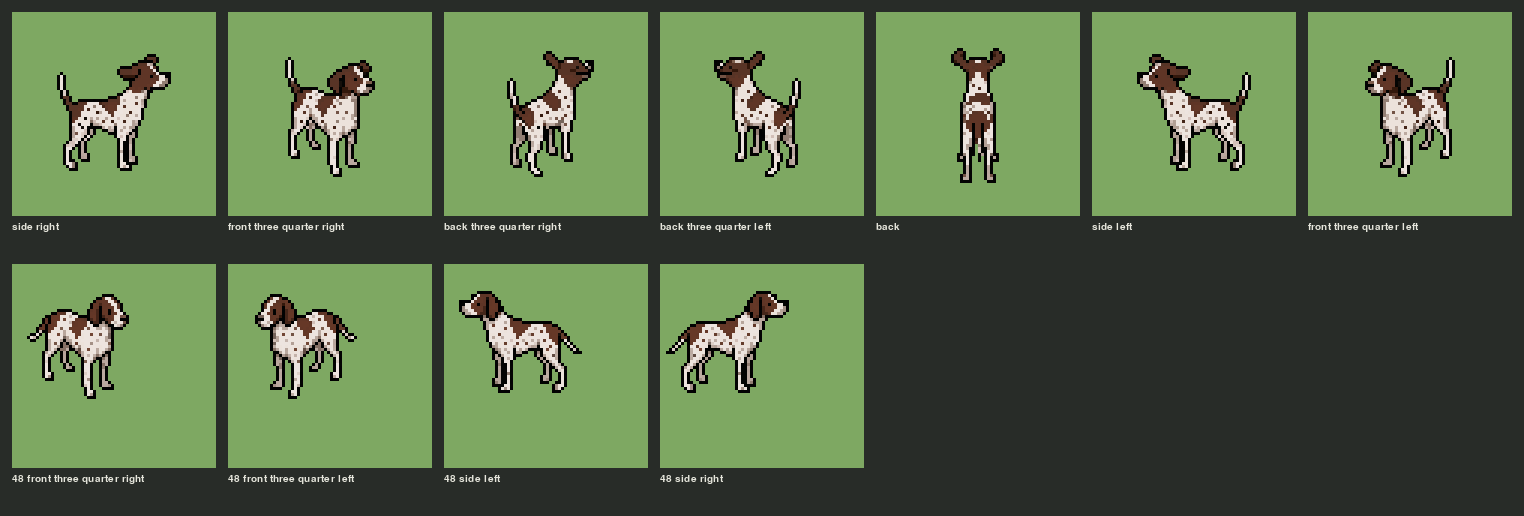
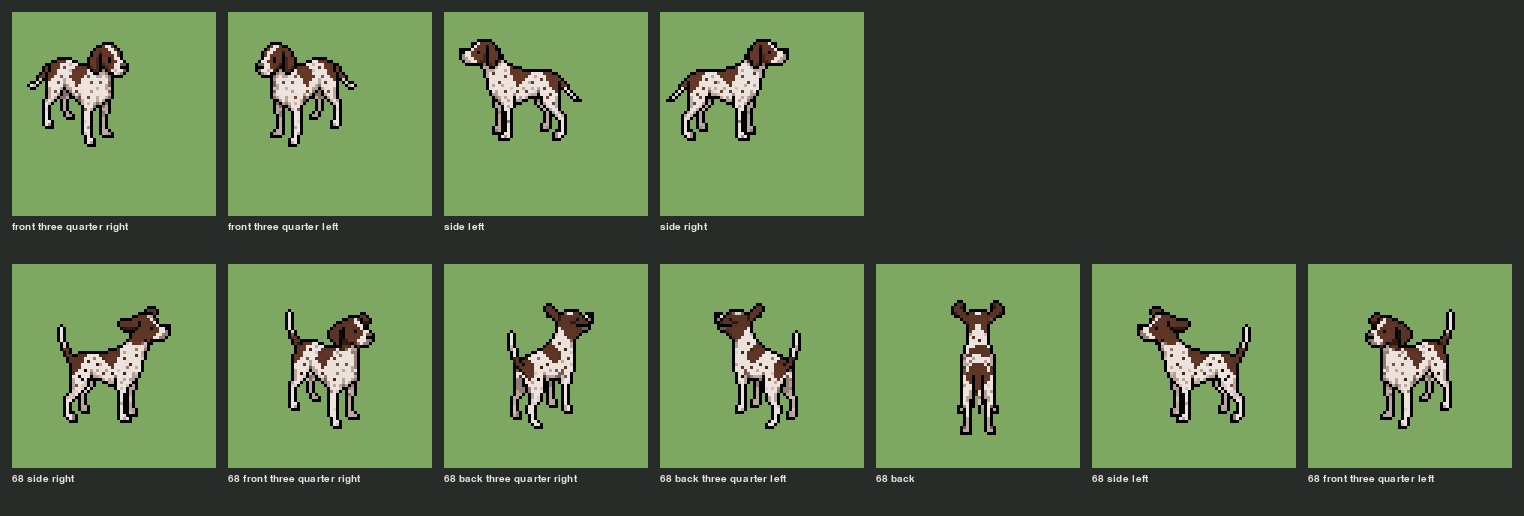
Make the 48 px Çatalburun the game's dog
dog_assets.views() and animations() now read assets/dog/48/ (new animation frames go there,
e.g. sniff_1.png ...); the first 68 px set stays available as views_68(). The sheet lists the
48 px set first.

Claude-Session: https://claude.ai/code/session_019EVZJ4S3LAHWbw14zdzvMa

diff --git a/apps/perdix-arcade/dog_assets.py b/apps/perdix-arcade/dog_assets.py
@@ -1,13 +1,11 @@
 """The Çatalburun dog drawn by hand, loaded for the game.
 
-Two sets, both transparent PNGs:
-- assets/dog/*.png (68x68): side (facing right), three-quarter front, three-quarter back (looking
-  right and left), back.
-- assets/dog/48/*.png (48x48, more detailed): three-quarter front looking right and left (drawn
-  separately, not mirrored), side facing left.
+The game's dog is the 48 px set, assets/dog/48/*.png (48x48, transparent): three-quarter front
+looking right and left (drawn separately, not mirrored) and the side view facing left. The first,
+68 px set (assets/dog/*.png: side, three-quarter front and back, back) is kept as views_68().
 A view drawn in only one direction also gets a mirrored copy, so every view has a _right and _left.
-Animation strips added later (e.g. assets/dog/sniff_1.png, sniff_2.png, ...) are found by name and
-loaded in order.
+Animation strips added later (e.g. assets/dog/48/sniff_1.png, sniff_2.png, ...) are found by name
+and loaded in order.
 
 `python dog_assets.py <out.png> [scale]` writes a labelled sprite sheet of everything found.
 """
@@ -21,14 +19,15 @@ import sys
 
 import pygame
 
-ASSET_DIR = os.path.join(os.path.dirname(os.path.abspath(__file__)), "assets", "dog")
-SET_48 = os.path.join(ASSET_DIR, "48")
+DOG_DIR = os.path.join(os.path.dirname(os.path.abspath(__file__)), "assets", "dog")
+ASSET_DIR = os.path.join(DOG_DIR, "48")  # the game's dog
+SET_68 = DOG_DIR
 VIEWS_48 = {
     "front_three_quarter_right": "front_three_quarter_right.png",
     "front_three_quarter_left": "front_three_quarter_left.png",
     "side_left": "side_left.png",
 }
-VIEWS = {
+VIEWS_68 = {
     "side_right": "stand_side.png",
     "front_three_quarter_right": "stand_front_three_quarter.png",
     "back_three_quarter_right": "stand_back_three_quarter_right.png",
@@ -43,7 +42,7 @@ def load(name: str, folder: str = ASSET_DIR) -> pygame.Surface:
 
 
 def views(folder: str = ASSET_DIR, names: dict[str, str] | None = None) -> dict[str, pygame.Surface]:
-    names = VIEWS if names is None else names
+    names = VIEWS_48 if names is None else names
     found = {key: load(name, folder) for key, name in names.items() if os.path.exists(os.path.join(folder, name))}
     for key in list(found):
         for this, other in (("_right", "_left"), ("_left", "_right")):
@@ -52,8 +51,8 @@ def views(folder: str = ASSET_DIR, names: dict[str, str] | None = None) -> dict[
     return found
 
 
-def views_48() -> dict[str, pygame.Surface]:
-    return views(SET_48, VIEWS_48)
+def views_68() -> dict[str, pygame.Surface]:
+    return views(SET_68, VIEWS_68)
 
 
 def animations(folder: str = ASSET_DIR) -> dict[str, list[pygame.Surface]]:
@@ -74,7 +73,7 @@ def animations(folder: str = ASSET_DIR) -> dict[str, list[pygame.Surface]]:
 
 def sheet(scale: int = 4) -> pygame.Surface:
     """Every view and animation on one labelled sheet (for looking at, not for the game)."""
-    rows = [("views", list(views().items())), ("48", [(f"48 {k}", v) for k, v in views_48().items()])]
+    rows = [("48", list(views().items())), ("68", [(f"68 {k}", v) for k, v in views_68().items()])]
     rows += [(k, [(f"{k} {i + 1}", f) for i, f in enumerate(v)]) for k, v in sorted(animations().items())]
     font = pygame.font.Font(None, 10 * scale // 2)
     cell = 68
